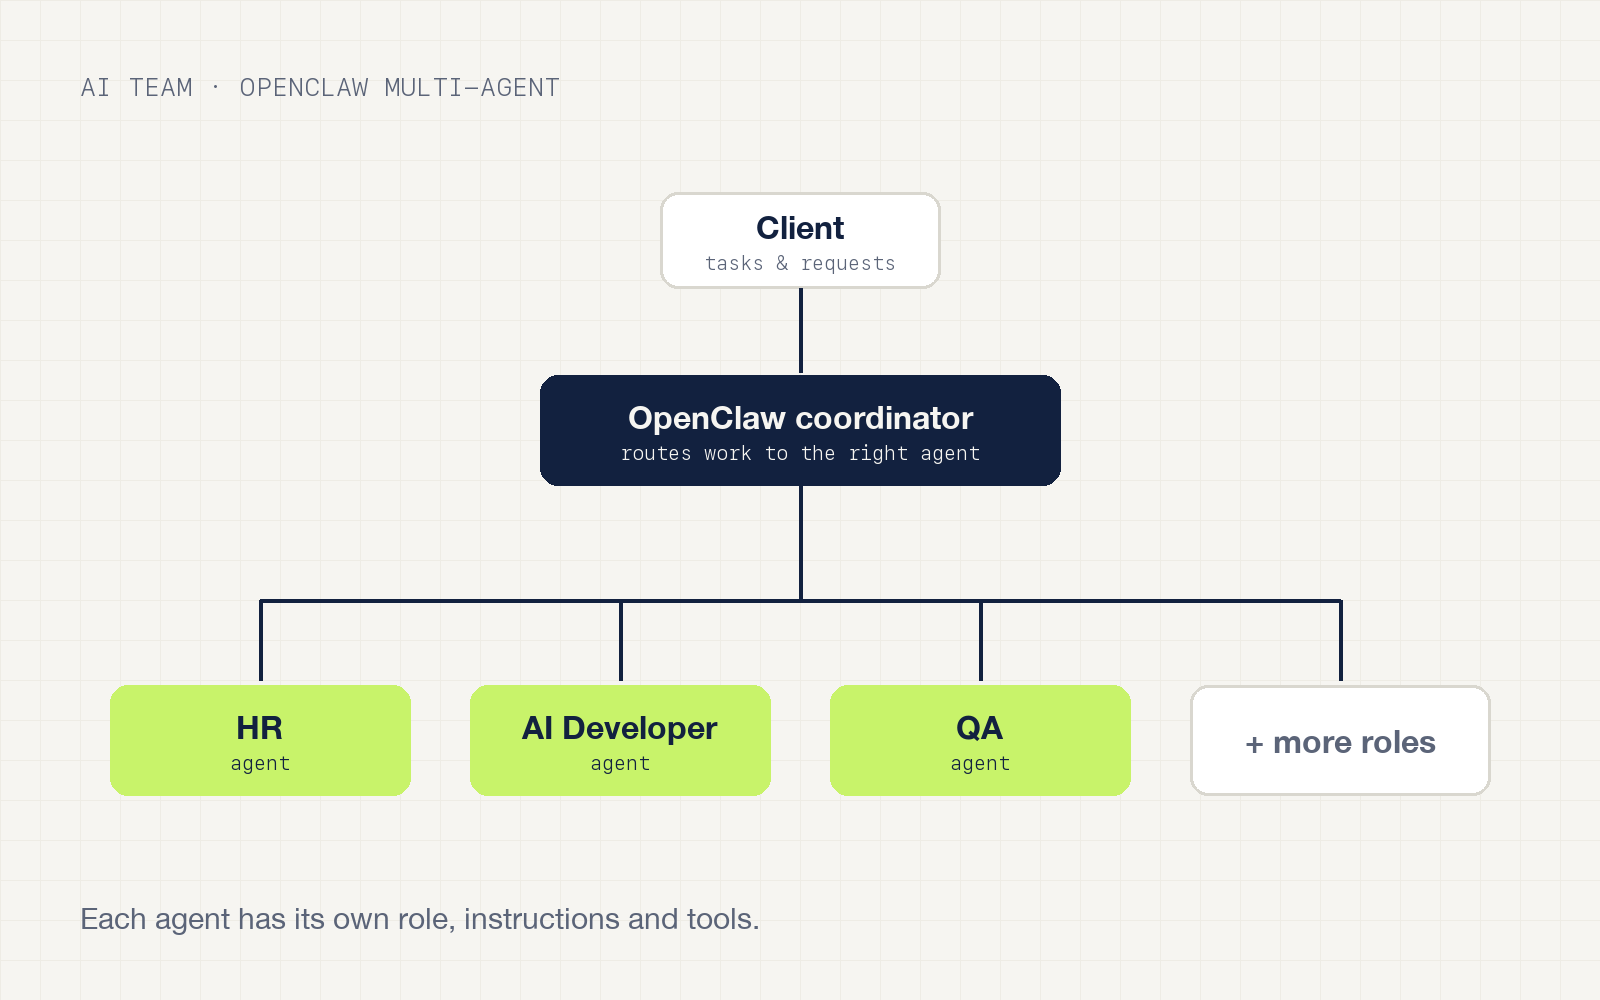
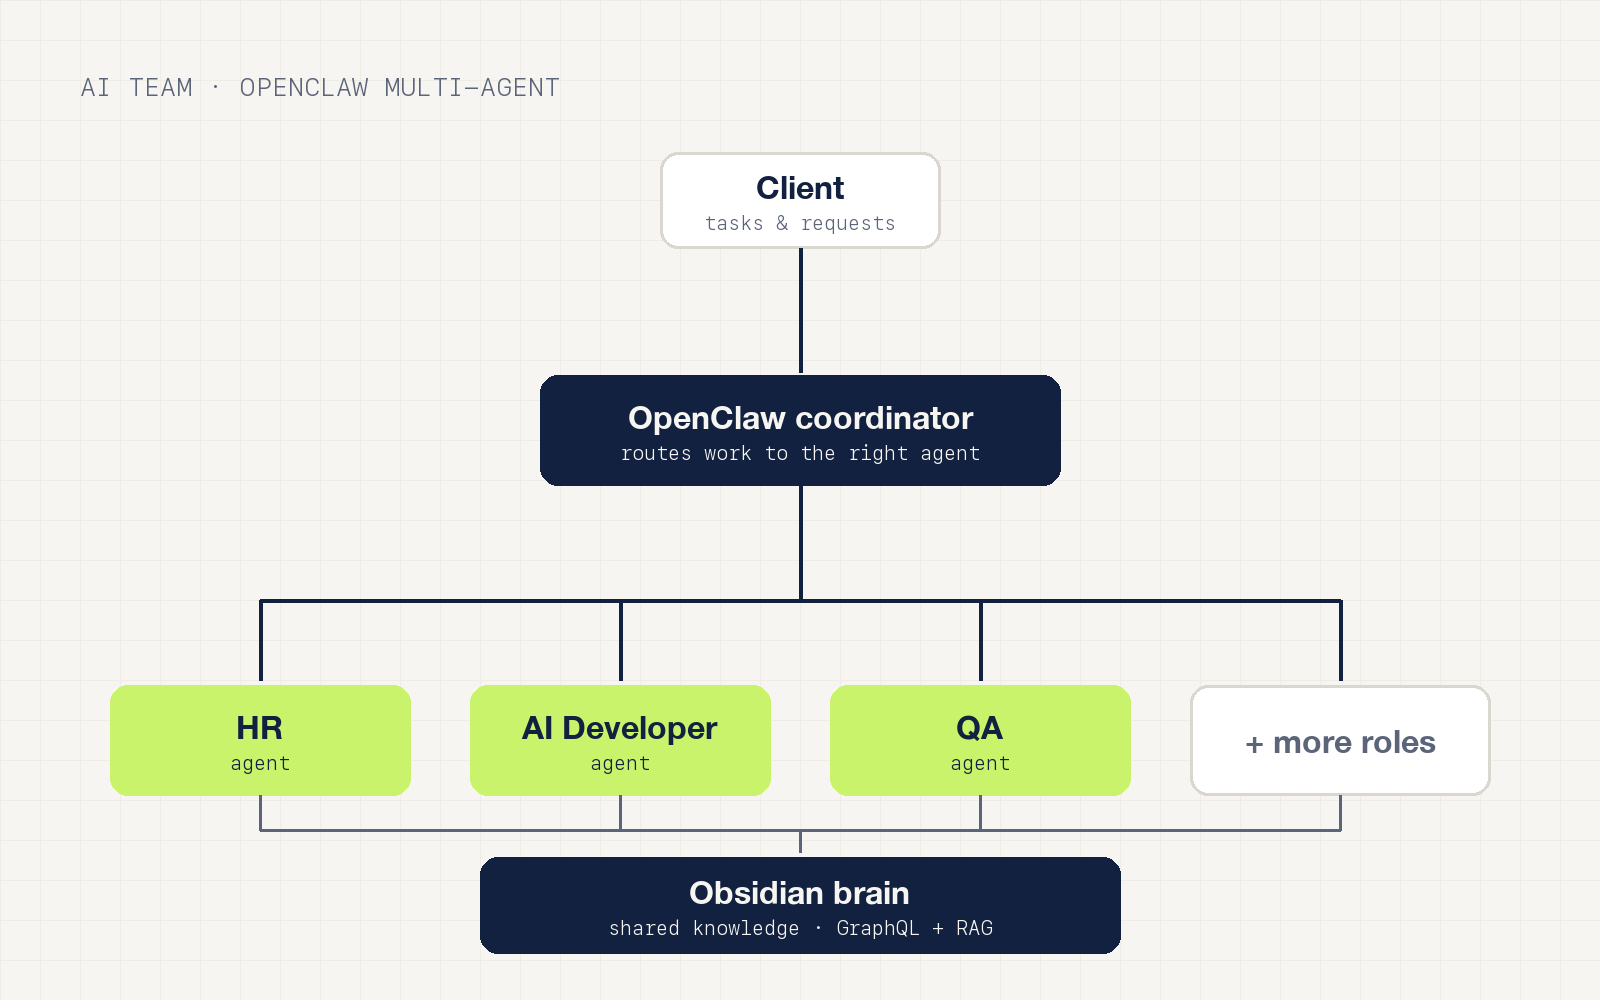
AI Team Bot: add Obsidian brain with GraphQL and RAG retrieval

diff --git a/lib/projects.ts b/lib/projects.ts
@@ -715,13 +715,13 @@ export const projects: Project[] = [
     year: "",
     disciplines: ["automation"],
     summary:
-      "A team of AI agents for one client, set up on OpenClaw. Each agent has its own role, such as HR, AI Developer and QA, with its own instructions and tools, so the client runs a whole AI team instead of a single chatbot.",
-    stack: ["OpenClaw", "AI agents", "LLMs"],
+      'A team of AI agents for one client, set up on OpenClaw. Each agent has its own role, such as HR, AI Developer and QA, with its own instructions and tools, so the client runs a whole AI team instead of a single chatbot. The agents share an Obsidian "brain": the client\'s knowledge base, which they query through GraphQL and RAG to pull the right context before they answer or act.',
+    stack: ["OpenClaw", "AI agents", "Obsidian", "GraphQL", "RAG", "LLMs"],
     cover: {
       src: teamBotCover,
-      alt: "Diagram: the client sends work to an OpenClaw coordinator, which routes it to HR, AI Developer, QA and other role agents.",
+      alt: "Diagram: the client sends work to an OpenClaw coordinator, which routes it to HR, AI Developer, QA and other role agents. All agents pull context from a shared Obsidian brain through GraphQL and RAG.",
     },
-    result: "One client, a full AI team: HR, AI Developer, QA and more",
+    result: "A full AI team with a shared Obsidian brain: HR, AI Developer, QA and more",
   },
   {
     slug: "heygen-podcast-avatar",

diff --git a/lib/content.ts b/lib/content.ts
@@ -378,10 +378,12 @@ export const skills = [
       "Twilio",
       "A2P 10DLC registration",
       "HeyGen AI avatars",
+      "OpenClaw AI agents",
+      "RAG & knowledge bases",
       "Webhooks",
     ],
   },
-  { group: "Backend", items: ["Node.js", "Laravel", "Java Spring Boot", "PHP", "PostgreSQL", "MySQL", "REST APIs"] },
+  { group: "Backend", items: ["Node.js", "Laravel", "Java Spring Boot", "PHP", "PostgreSQL", "MySQL", "REST APIs", "GraphQL"] },
   { group: "Frontend", items: ["TypeScript", "React", "Next.js", "Tailwind CSS", "shadcn/ui", "Three.js"] },
   { group: "Infrastructure", items: ["AWS (EC2, RDS, S3, Lambda)", "Vercel", "Azure", "VPS / cPanel", "CI/CD"] },
 ];
